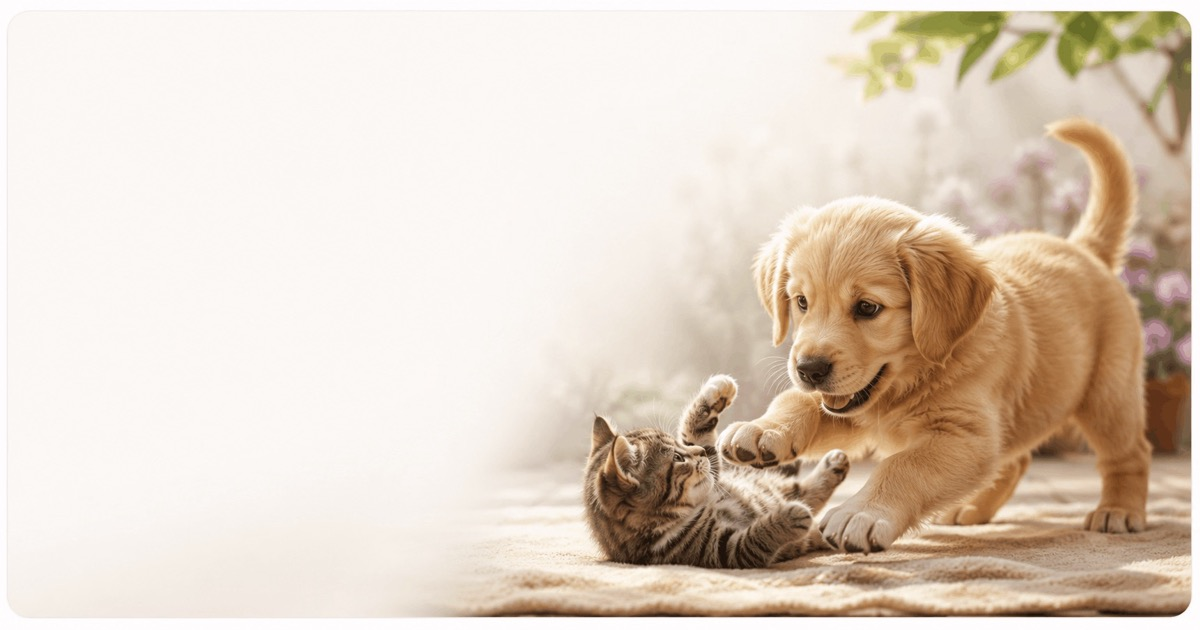
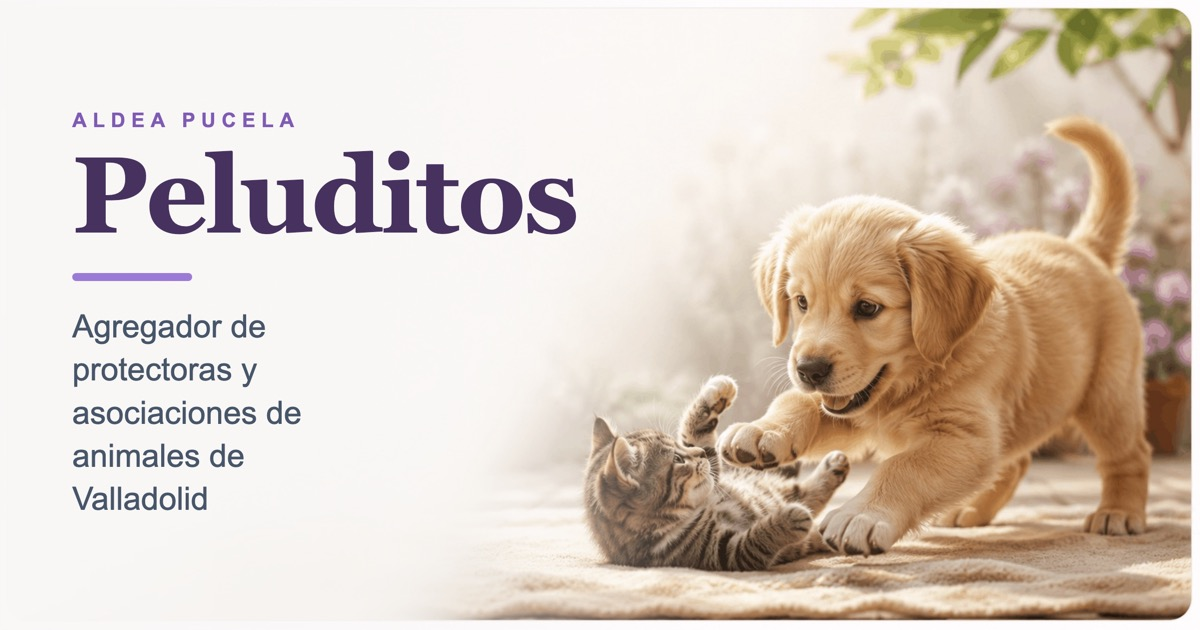
Imagen Open Graph estilo hero (título + descripción sobre la foto), con cache-bust ?v=2

diff --git a/archivo/index.html b/archivo/index.html
@@ -13,14 +13,14 @@
   <meta property="og:title" content="Archivo — Peluditos">
   <meta property="og:description" content="Archivo por años de las publicaciones de las protectoras y asociaciones de animales de Valladolid.">
   <meta property="og:url" content="https://peluditos.aldeapucela.org/archivo/">
-  <meta property="og:image" content="https://peluditos.aldeapucela.org/img/og.jpg">
+  <meta property="og:image" content="https://peluditos.aldeapucela.org/img/og.jpg?v=2">
   <meta property="og:image:width" content="1200">
   <meta property="og:image:height" content="630">
   <meta property="og:image:alt" content="Un cachorro y un gatito jugando juntos">
   <meta name="twitter:card" content="summary_large_image">
   <meta name="twitter:title" content="Archivo — Peluditos">
   <meta name="twitter:description" content="Archivo por años de las publicaciones de las protectoras de Valladolid.">
-  <meta name="twitter:image" content="https://peluditos.aldeapucela.org/img/og.jpg">
+  <meta name="twitter:image" content="https://peluditos.aldeapucela.org/img/og.jpg?v=2">
   <link rel="icon" href="img/logo.svg">
   <link rel="stylesheet" href="styles.css">
 </head>

diff --git a/index.html b/index.html
@@ -12,14 +12,14 @@
   <meta property="og:title" content="Peluditos — Protectoras y asociaciones de animales de Valladolid">
   <meta property="og:description" content="Los animales en adopción de todas las protectoras de Valladolid, en una sola página. Una web de la comunidad de Aldea Pucela.">
   <meta property="og:url" content="https://peluditos.aldeapucela.org/">
-  <meta property="og:image" content="https://peluditos.aldeapucela.org/img/og.jpg">
+  <meta property="og:image" content="https://peluditos.aldeapucela.org/img/og.jpg?v=2">
   <meta property="og:image:width" content="1200">
   <meta property="og:image:height" content="630">
   <meta property="og:image:alt" content="Un cachorro y un gatito jugando juntos">
   <meta name="twitter:card" content="summary_large_image">
   <meta name="twitter:title" content="Peluditos — Protectoras de animales de Valladolid">
   <meta name="twitter:description" content="Los animales en adopción de todas las protectoras de Valladolid, en una sola página.">
-  <meta name="twitter:image" content="https://peluditos.aldeapucela.org/img/og.jpg">
+  <meta name="twitter:image" content="https://peluditos.aldeapucela.org/img/og.jpg?v=2">
   <link rel="icon" href="img/logo.svg">
   <link rel="stylesheet" href="styles.css">
 </head>

diff --git a/protectoras/index.html b/protectoras/index.html
@@ -13,14 +13,14 @@
   <meta property="og:title" content="Protectoras y Asociaciones — Peluditos">
   <meta property="og:description" content="Las protectoras y asociaciones de animales de Valladolid presentes en Peluditos, con sus enlaces y datos de contacto.">
   <meta property="og:url" content="https://peluditos.aldeapucela.org/protectoras/">
-  <meta property="og:image" content="https://peluditos.aldeapucela.org/img/og.jpg">
+  <meta property="og:image" content="https://peluditos.aldeapucela.org/img/og.jpg?v=2">
   <meta property="og:image:width" content="1200">
   <meta property="og:image:height" content="630">
   <meta property="og:image:alt" content="Un cachorro y un gatito jugando juntos">
   <meta name="twitter:card" content="summary_large_image">
   <meta name="twitter:title" content="Protectoras y Asociaciones — Peluditos">
   <meta name="twitter:description" content="Las protectoras y asociaciones de animales de Valladolid, con sus enlaces y contacto.">
-  <meta name="twitter:image" content="https://peluditos.aldeapucela.org/img/og.jpg">
+  <meta name="twitter:image" content="https://peluditos.aldeapucela.org/img/og.jpg?v=2">
   <link rel="icon" href="img/logo.svg">
   <link rel="stylesheet" href="styles.css">
 </head>